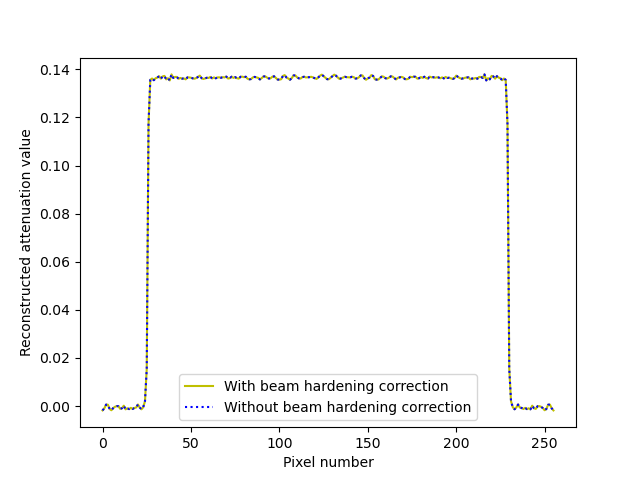
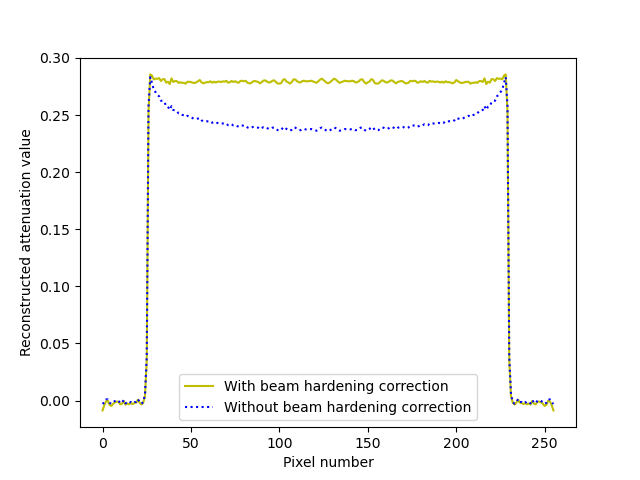
added some new stuff

diff --git a/sd24.py b/sd24.py
@@ -4,39 +4,43 @@
 import ct_include
 from ct_include import *
 
-photons = source.photon('100kVp, 2mm Al')
-#photons = fake_source(material.mev, 1.2, coeff = None, thickness = 0, method='ideal')
+#photons = source.photon('100kVp, 2mm Al')
+photons = fake_source(material.mev, 1.2, coeff = None, thickness = 0, method='ideal')
 n = 256
 scale = 0.1
 angles = 256
 
 # ------------------------------------
 
-# TEST 1:  Checking on a disc of water
+# TEST 1:  Checking on 
 
-phantom_type = 11 # testing on a disc of tissue
+#phantom_type = 11 # testing on a disc of tissue
+phantom_type = 9 # disc made of water
 
-# first we reconstruct the phantom without the water calibration
-phantom1 = ct_phantom(material.name, n, phantom_type)
-sinogram1 = ct_scan(photons, material, phantom1, scale, angles)
+phantom = ct_phantom(material.name, n, phantom_type)
+
+# first we reconstruct the phantom WITHOUT the water calibration
+
+sinogram1 = ct_scan(photons, material, phantom, scale, angles)
 sinogram_att1 = ct_calibrate(photons, material, sinogram1, scale, correct = False)
 filtered1 = ramp_filter(sinogram_att1, scale)
 bp1 = back_project(filtered1)
 
-# next we reconstruct the phantom with the water calibration
-phantom2 = ct_phantom(material.name, n, phantom_type)
-sinogram2 = ct_scan(photons, material, phantom2, scale, angles)
+# next we reconstruct the phantom WITH the water calibration
+sinogram2 = ct_scan(photons, material, phantom, scale, angles)
 sinogram_att2 = ct_calibrate(photons, material, sinogram2, scale, correct = True)
 filtered2 = ramp_filter(sinogram_att2, scale)
 bp2 = back_project(filtered2)
 
 # Let us now plot a line through these reconstructions and compare the values
+plt.clf()
 plt.plot(bp2[127], 'y')
 plt.plot(bp1[127], 'b:')
 plt.xlabel('Pixel number')
 plt.ylabel('Reconstructed attenuation value')
 plt.legend(['With beam hardening correction', 'Without beam hardening correction'])
-#plt.savefig('results/week2/checking_bh_correction_disc_water.png')
+plt.savefig('results/week2/checking_bh_fake_single_source_water_disc_C_0_13.png', bbox_inches='tight',pad_inches = 0)
+#plt.savefig('results/week2/checking_bh_real_source_tissue_disc.png', bbox_inches='tight',pad_inches = 0)
 plt.show()
 # RESULT: We can see that the plots overlap each other exactly, which is what we'd expect
 

diff --git a/sd211.py b/sd211.py
@@ -4,14 +4,14 @@ import ct_include
 # This script investigates the effect of varying the number of angles on the reconstructed image
 
 # this fake source should give us a single energy source at 0.2 MeV
-#photons = fake_source(material.mev, 1.2, coeff = None, thickness = 0, method='ideal')
-photons = source.photon('100kVp, 2mm Al')
+photons = fake_source(material.mev, 1.2, coeff = None, thickness = 0, method='ideal')
+#photons = source.photon('100kVp, 2mm Al')
 
 n = 256
 scale = 0.1
-angles = np.linspace(60, 300, 6)
+angles = np.linspace(60, 300, 3)
 
-phantom_type = 6
+phantom_type = 1
 phantom = ct_phantom(material.name, n, phantom_type)
 
 centre_line = np.zeros((len(angles), n))
@@ -19,19 +19,29 @@ centre_line = np.zeros((len(angles), n))
 for i in range(len(angles)):
 
     sinogram = ct_scan(photons, material, phantom, scale, np.int(angles[i]))
-    sinogram_att = ct_calibrate(photons, material, sinogram, scale)
+    sinogram_att = ct_calibrate(photons, material, sinogram, scale, correct = False)
     filtered = ramp_filter(sinogram_att, scale)
     bp = back_project(filtered)
 
     centre_line[i] = bp[127]
 
 # now to create the plot of centre lines
+plt.clf()  # clear any existing figure/plot
 for i in range(len(angles)):
     plt.plot(centre_line[i])
 plt.legend(angles)
 plt.xlabel('Pixel number')
 plt.ylabel('Attenuation value')
 plt.savefig('results/week2/varying_with_angles.png', bbox_inches='tight',pad_inches = 0)
+
+plt.clf()  # clear any existing figure/plot
+for i in range(len(angles)):
+    plt.plot(centre_line[i][125:175])
+plt.legend(angles)
+plt.xlabel('Pixel number')
+plt.ylabel('Attenuation value')
+plt.savefig('results/week2/varying_with_angles_zoomed_in.png', bbox_inches='tight',pad_inches = 0)
+
 
     
 

diff --git a/sd12.py b/sd12.py
@@ -20,11 +20,11 @@ plt.plot(np.log(y2), 'r') # this gives a straight line
 y3 = ct_detect(photons, material.coeff('Titanium'), depths, 1)
 plt.plot(np.log(y3), 'k') # this gives a straight line
 
-plt.xlabel('Depth (cm)')
-plt.ylabel('Residual intensity value')
+plt.xlabel('Depth (mm)')
+plt.ylabel('Residual intensity value (log)')
 plt.legend(['Water', 'Bone', 'Titanium'])
 
-plt.savefig('results/week1/real_source_attenuation.png')
+plt.savefig('results/week1/real_source_attenuation.png', bbox_inches='tight',pad_inches = 0)
 
 plt.show()
 
@@ -44,10 +44,10 @@ plt.plot(np.log(y2), 'r') # this gives a straight line
 y3 = ct_detect(photons, material.coeff('Titanium'), depths, 1)
 plt.plot(np.log(y3), 'k') # this gives a straight line
 
-plt.xlabel('Depth (cm)')
-plt.ylabel('Residual intensity value')
+plt.xlabel('Depth (mm)')
+plt.ylabel('Residual intensity value (log)')
 plt.legend(['Water', 'Bone', 'Titanium'])
 
-plt.savefig('results/week1/fake_source_attenuation.png')
+plt.savefig('results/week1/fake_source_attenuation.png', bbox_inches='tight',pad_inches = 0)
 
 plt.show()

diff --git a/ct_detect.py b/ct_detect.py
@@ -67,7 +67,7 @@ def ct_detect(p, coeffs, depth, mas=10000):
 	# 2. background radiation (additive fixed component) that scales with number of source photons
 
 	# model noise source 1 - transmitted scatter distribution
-	detector_photons = np.random.poisson(detector_photons)
+	# detector_photons = np.random.poisson(detector_photons)
 
 	# model noise source 2 - indirect scattering
 	#total_num_photons = np.sum(detector_photons)

diff --git a/ct_calibrate.py b/ct_calibrate.py
@@ -36,7 +36,8 @@ def ct_calibrate(photons, material, sinogram, scale, correct=True):
 		p = np.poly1d(f)
 
 		t_wm = p(sinogram)   # this is for all sinogram attenuation values
-		C = 1		# Scaling factor
+		#C = 0.265	# real source, tissue disc
+		C = 0.13 # fake single source, water disc
 		mu_c = C*t_wm
 
 		sinogram = mu_c
